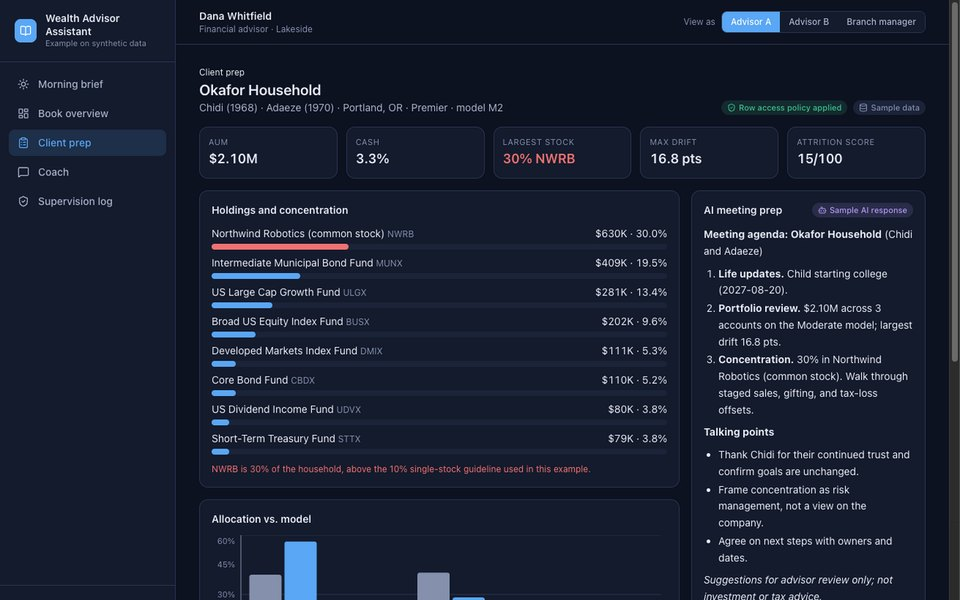
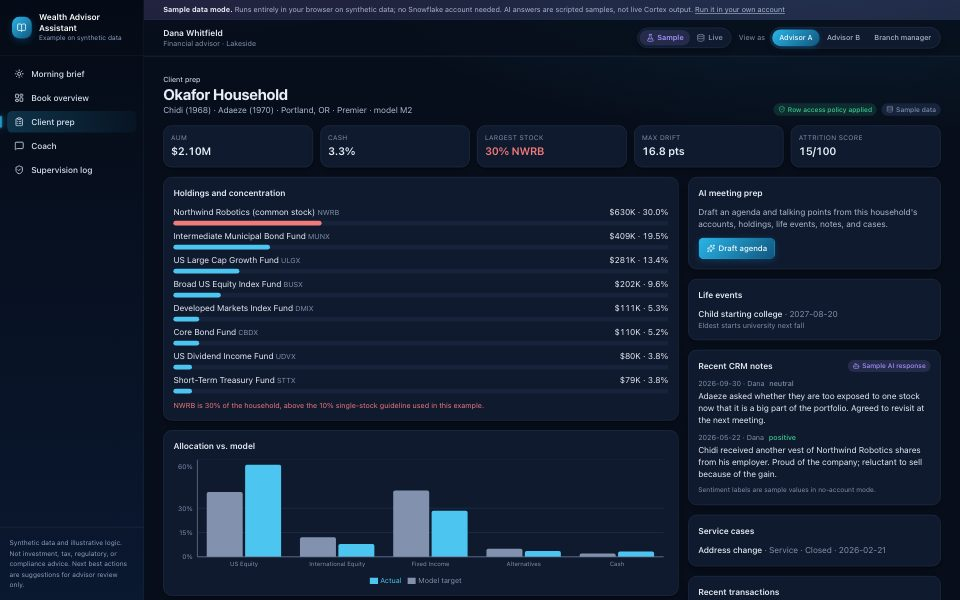
Recommend scripted screenshot capture at a fixed viewport
CONTRIBUTING now points contributors to a headless Playwright capture script
(1600x1000, fresh browser, no sign-in) that writes both landing-page images
and 960x600 card previews, with the built-in browser as a fallback and an
optional short workflow video. Refreshes the Wealth Advisor Assistant cards
from that script.

Generated with [Snowflake CoCo](https://docs.snowflake.com/en/user-guide/cortex-code/cortex-code)

diff --git a/CONTRIBUTING.md b/CONTRIBUTING.md
@@ -53,15 +53,23 @@ Write for a customer seeing it for the first time. The landing page is your pitc
 
 ### Capture screenshots with CoCo
 
-Let CoCo run your finished app and take the screenshots for you:
+Capture screenshots with a **script**, not by hand. A headless browser at a fixed window size produces large, sharp, identical images on any laptop. You don't need to maximize a window or plug in a monitor, and you can rerun the script whenever the UI changes. Because it starts a fresh browser with no sign-in, account details can't end up in a shot.
 
-1. **Maximize the CoCo browser window** first, so screenshots are full-size and the layout isn't squeezed into a narrow panel.
-2. Ask CoCo to start the app with its synthetic data and open it in the built-in browser.
-3. Ask it to click through the main workflow and screenshot each key screen, for example: "Run the app, click through the overview, a drill-down and the AI Q&A, and take a full-window screenshot of each. Save them to `docs/images/`."
-4. Review every image before publishing: synthetic data only, no account URLs, user names, tokens, or internal tabs visible.
-5. Ask CoCo to add the images to the landing page with captions and alt text, then check the page at desktop and phone width.
+- **Should:** Add `scripts/capture-screenshots.mjs` and an `npm run capture` command. Copy the [Wealth Advisor Assistant script](https://github.com/sfc-gh-ooral/sfguide-wealth-advisor-assistant/blob/main/scripts/capture-screenshots.mjs) as a starting point. It:
+  - serves your no-account example (e.g., `docs/try/`) locally, with no dev server or Snowflake account;
+  - opens each screen in headless Chromium (Playwright) at a **1600×1000** viewport, the catalog's 16:10 shape, with a fixed locale and time zone;
+  - clicks through the steps you list (open a drill-down, ask the agent, switch personas);
+  - writes landing-page images to `docs/images/` at 1.25× (2000×1250 PNG) and catalog cards at 0.6× (960×600 JPG), ready for section 11.
+- **Should not:** Attach the script to your everyday, signed-in browser (e.g., Chrome over a remote-debugging port). That session can show account URLs, user names, and internal tabs. Use it only for an app that cannot run without signing in, and review every frame.
 
-Keep images in the repository (e.g., `docs/images/`), compressed (PNG or WebP, ideally under 500 KB each), and rerun the capture whenever the UI changes so screenshots stay current.
+To set it up, ask CoCo: "Copy the capture script from the Wealth Advisor Assistant pack, adapt the `SHOTS` list to my app's main workflow, run it, and show me every image." Then:
+
+1. Review every image: synthetic data only, no account URLs, user names, tokens, or internal tabs.
+2. Ask CoCo to add the images to the landing page with captions and alt text, then check the page at desktop and phone width.
+
+Keep images in the repository (e.g., `docs/images/`), ideally under 500 KB each. The built-in CoCo browser still works if you can't run a script: maximize its window first so shots aren't squeezed into a narrow panel.
+
+**Optional video.** A 15–30 second captioned clip or GIF of the main workflow helps a lot on the landing page. Record it the same way: Playwright's video recording, or frames from a headless run, encoded locally with a tool such as ffmpeg. Every number on screen must come from the pack's synthetic data. Don't add claims, stock footage, or mock UI.
 
 ## 4. The app
 
@@ -85,7 +93,7 @@ Already have a working SQL script or notebook? Ask CoCo to build the app on top 
 - "Turn this guide into a local React app with a sidebar, a KPI dashboard, and a detail page. Use the captured results as mock data, and label every mocked AI response."
 - "Add a 'View as' role switcher that shows how the same data looks to each persona, using the row access and masking policies in the script."
 
-Then ask CoCo to run the app, click through the workflow, and capture the screenshots for the landing page and catalog card.
+Then ask CoCo to run the app, click through the workflow, and capture the screenshots for the landing page and catalog card with a capture script (see [Capture screenshots with CoCo](#capture-screenshots-with-coco)).
 
 ## 5. Snowflake setup and sample data
 
@@ -144,7 +152,7 @@ Then ask CoCo to run the app, click through the workflow, and capture the screen
 
 1. Fork this repository and create a branch.
 2. Add one object to [`packs.json`](packs.json) using the schema below.
-3. Add **2 to 8 card preview screenshots** of your app's key screens (main dashboard first), saved as `assets/packs/<id>-1.jpg`, `<id>-2.jpg`, and so on: 16:10, 960×600, ideally under 100 KB each. Readers see them in a carousel when they hover or tap **Preview app** on your card. They live in this repository, not yours, so the catalog never loads outside images.
+3. Add **2 to 8 card preview screenshots** of your app's key screens (main dashboard first), saved as `assets/packs/<id>-1.jpg`, `<id>-2.jpg`, and so on: 16:10, 960×600, ideally under 100 KB each. A capture script can write these for you. Readers see them in a carousel when they hover or tap **Preview app** on your card. They live in this repository, not yours, so the catalog never loads outside images.
 4. Add one matching row to the **Catalog** table in [`README.md`](README.md).
 5. Serve this site locally with `python3 -m http.server 8000 --bind 127.0.0.1`. Check search, filters, empty results, keyboard navigation, narrow layout, and both color schemes.
 6. Open a pull request, complete the checklist, and note any skipped **Should** items or limitations.
